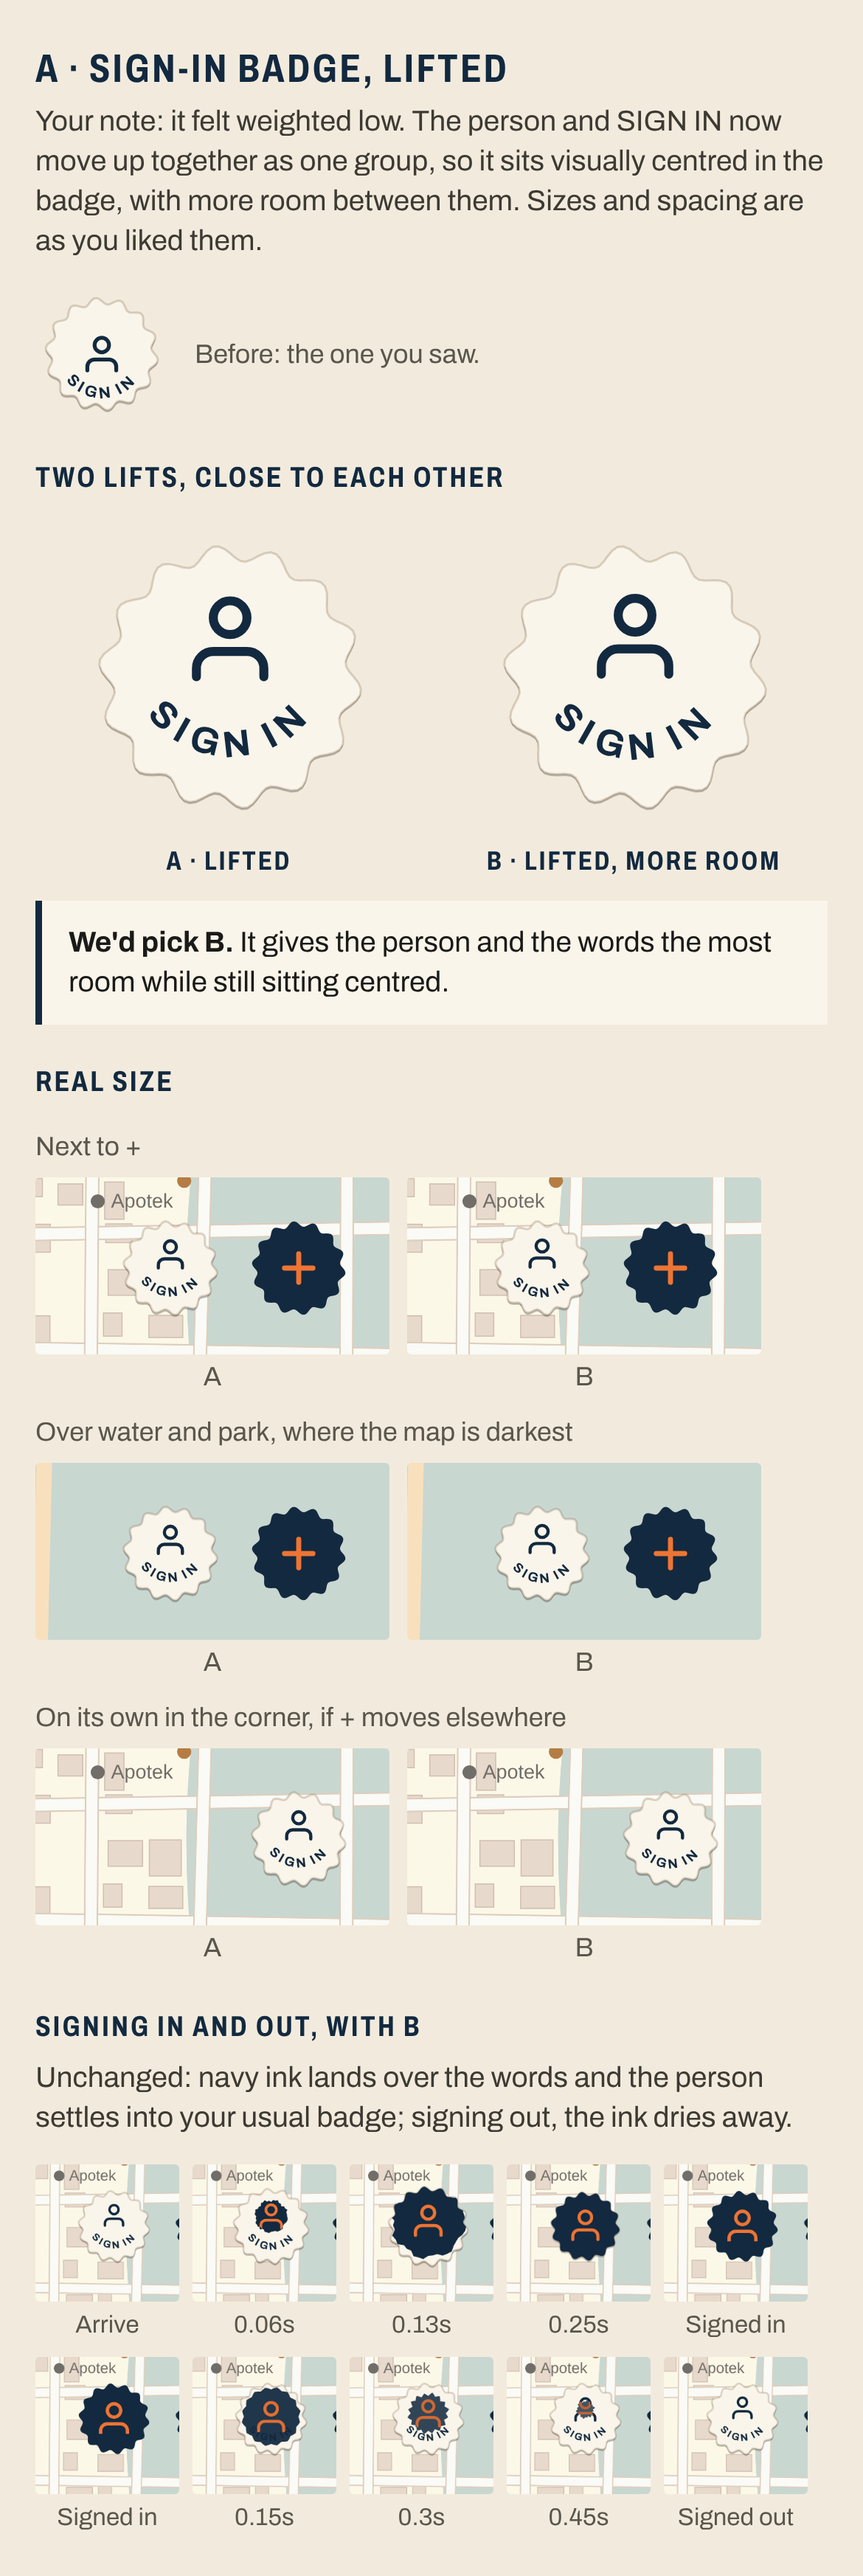
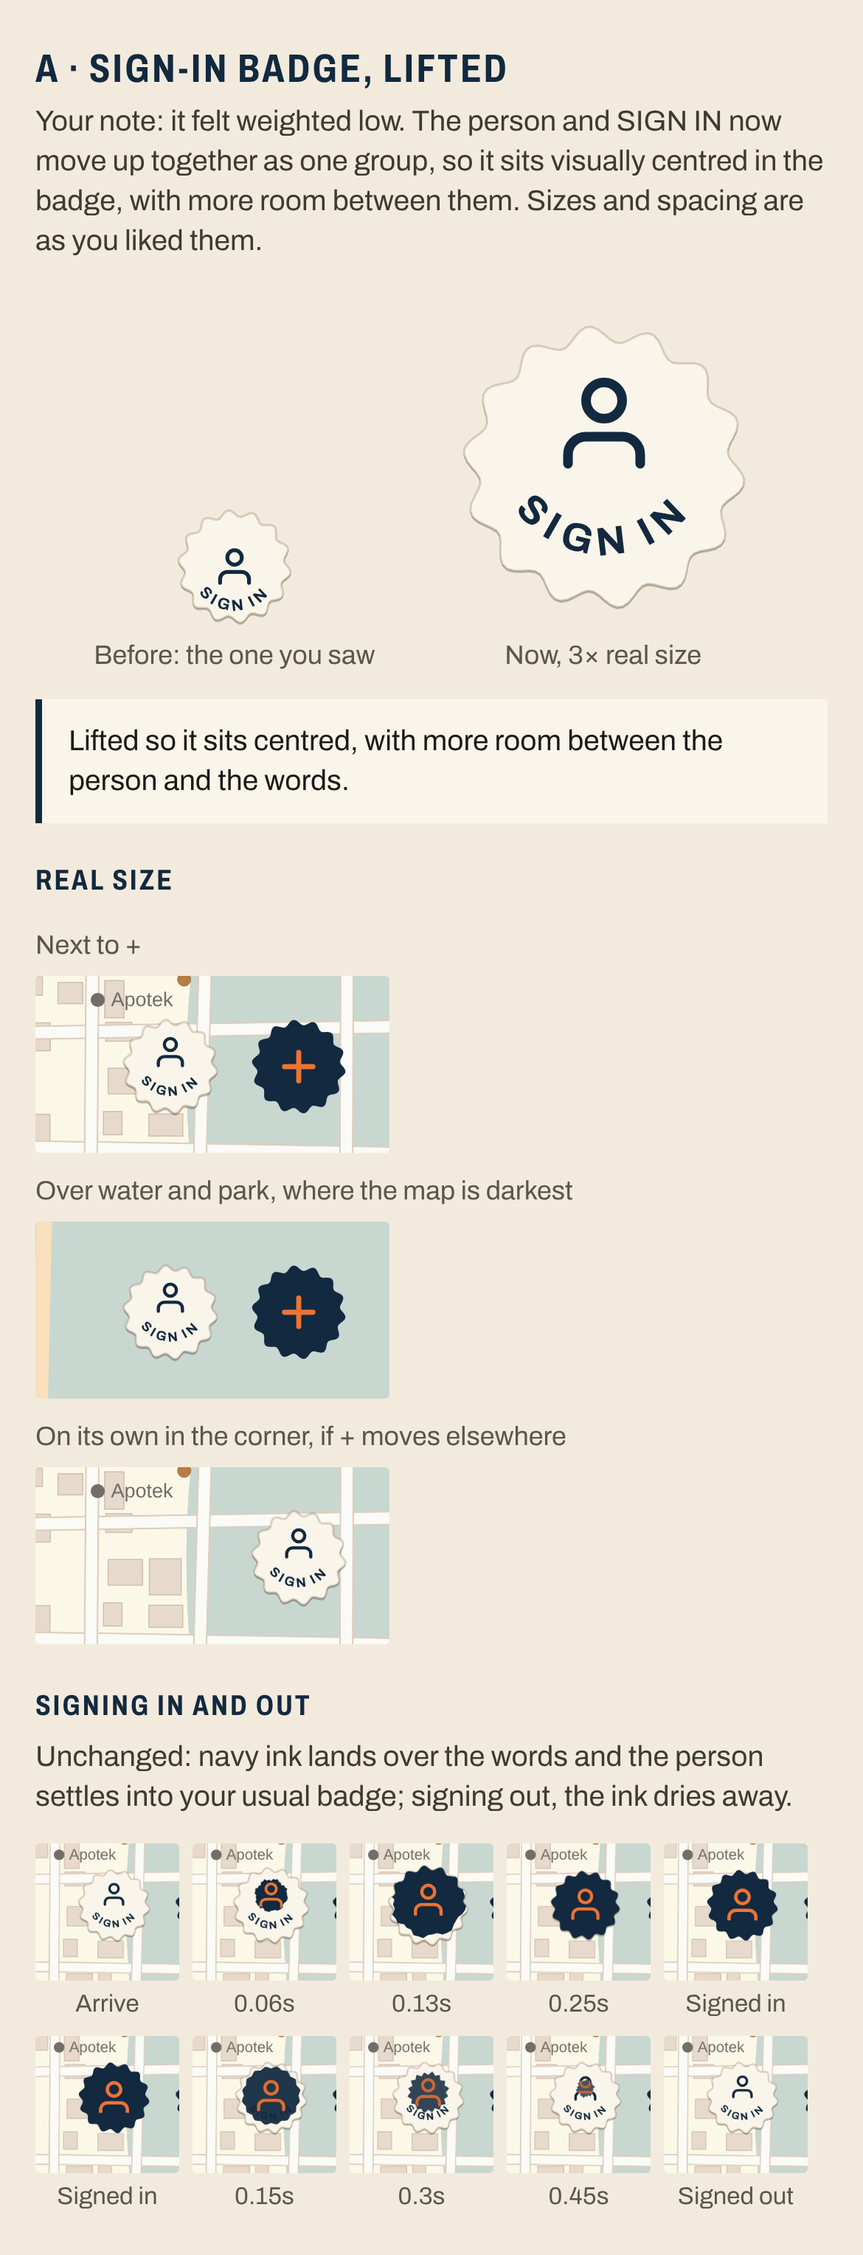
Design loops: work in progress
Claude-Session: https://claude.ai/code/session_01DgU7ophvEWkwzRHqdd2X8u

diff --git a/design/signin-button/concepts/A-arc-badge/round2/sheet-2c.html b/design/signin-button/concepts/A-arc-badge/round2/sheet-2c.html
@@ -7,23 +7,21 @@
 .row2{display:flex;gap:8px;padding:2px 16px}.row2>div{width:160px}.row2 img{display:block;border-radius:2px}
 .rl{font-size:12px;line-height:15px;color:#5A564C;padding:8px 16px 4px}
 .pick{background:#FAF5EA;margin:8px 16px 0;padding:10px 12px;border-left:3px solid #12293F;font-size:13px;line-height:18px}
-.before{display:flex;align-items:center;gap:12px;padding:4px 16px 0}.before .t{text-align:left;margin:0}
+.cmp{display:flex;align-items:flex-end;justify-content:center;gap:28px;padding:10px 16px 4px}.cmp>div{display:flex;flex-direction:column;align-items:center}
 </style>
 <script>window.__CONCEPT='A'</script><script src="../../flow/proto/patch.js"></script><script src="badge2.js"></script></head><body>
 <h1>A · Sign-in badge, lifted</h1>
 <p>Your note: it felt weighted low. The person and SIGN IN now move up together as one group, so it sits visually centred in the badge, with more room between them. Sizes and spacing are as you liked them.</p>
-<div class="before" id="before"></div>
-<h2>Two lifts, close to each other</h2>
-<div class="pair" id="pair"></div>
-<div class="pick"><b>We'd pick B.</b> It gives the person and the words the most room while still sitting centred.</div>
+<div class="cmp" id="cmp"></div>
+<div class="pick">Lifted so it sits centred, with more room between the person and the words.</div>
 <h2>Real size</h2>
 <div class="rl">Next to +</div>
-<div class="row2"><div><img src="shots/2c/v6-cream-plus.png" width="160" height="80"><div class="t">A</div></div><div><img src="shots/2c/v7-cream-plus.png" width="160" height="80"><div class="t">B</div></div></div>
+<div class="row2"><div><img src="shots/2c/v7-cream-plus.png" width="160" height="80"></div></div>
 <div class="rl">Over water and park, where the map is darkest</div>
-<div class="row2"><div><img src="shots/2c/v6-dark-plus.png" width="160" height="80"><div class="t">A</div></div><div><img src="shots/2c/v7-dark-plus.png" width="160" height="80"><div class="t">B</div></div></div>
+<div class="row2"><div><img src="shots/2c/v7-dark-plus.png" width="160" height="80"></div></div>
 <div class="rl">On its own in the corner, if + moves elsewhere</div>
-<div class="row2"><div><img src="shots/2c/v6-cream-alone.png" width="160" height="80"><div class="t">A</div></div><div><img src="shots/2c/v7-cream-alone.png" width="160" height="80"><div class="t">B</div></div></div>
-<h2>Signing in and out, with B</h2>
+<div class="row2"><div><img src="shots/2c/v7-cream-alone.png" width="160" height="80"></div></div>
+<h2>Signing in and out</h2>
 <p>Unchanged: navy ink lands over the words and the person settles into your usual badge; signing out, the ink dries away.</p>
 <div class="frames">
 <div style="width:65px"><img src="shots/2c/in-0.png" width="65" height="62"><div class="t">Arrive</div></div>
@@ -41,7 +39,6 @@
 </div>
 <div style="height:16px"></div>
 <script>
-before.innerHTML = `${SB.badgeA({ v: 2, size: 60 })}<div class="t">Before: the one you saw.</div>`;
-pair.innerHTML = `<div>${SB.badgeA({ v: 6, size: 140 })}<div class="lab">A · Lifted</div></div><div>${SB.badgeA({ v: 7, size: 140 })}<div class="lab">B · Lifted, more room</div></div>`;
+cmp.innerHTML = `<div>${SB.badgeA({ v: 2, size: 60 })}<div class="t">Before: the one you saw</div></div><div>${SB.badgeA({ v: 7, size: 150 })}<div class="t">Now, 3× real size</div></div>`;
 document.fonts.ready.then(() => SB.centerArcs());
 </script></body></html>
